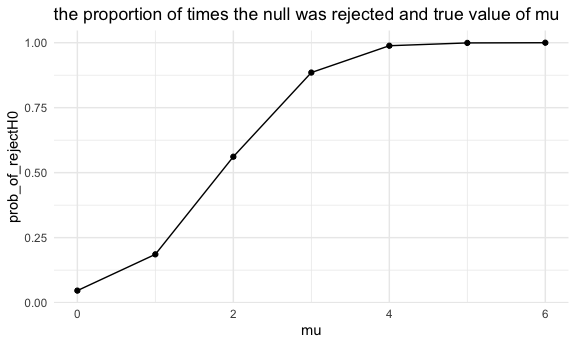
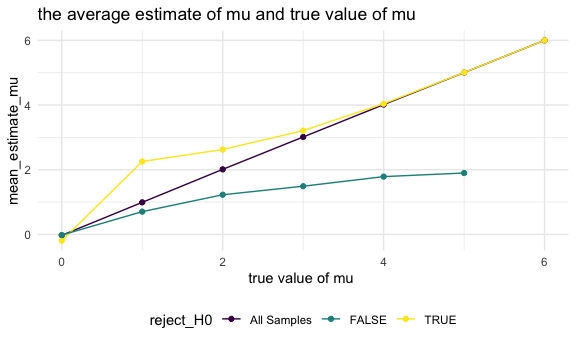
review 1

diff --git a/p8105_hw5_dt2833.md b/p8105_hw5_dt2833.md
@@ -247,13 +247,13 @@ decrease in outcome over time.
 
 For subjects among the experiental arm, outcome overall increases over
 time. Comparing starting and ending outcome of subjects, overall outcome
-increases at the end of the study.
+increases by the end of the study.
 
 ## Problem 03
 
 ``` r
 source("source/t_test.R")
-
+#simulation dataset and ttest results
 sim_results_df = 
   expand_grid(
     mu = 0:6, 
@@ -265,20 +265,25 @@ sim_results_df =
   unnest(est_df)
 ```
 
-Plots
+### Plots
+
+**The proportion of times the null was rejected and true value of mu**
 
 ``` r
-#the average estimate of mu and true value of mu
+#the proportion of times the null was rejected and true value of mu
 sim_results_df |> 
 group_by(mu) |> 
- summarize(prob_of_rejectH0 = mean(reject_H0)) |> 
-  ggplot(aes(x = mu, y = prob_of_rejectH0)) + 
+ summarize(prop_of_rejectH0 = mean(reject_H0)) |> 
+  ggplot(aes(x = mu, y = prop_of_rejectH0)) + 
   geom_point() + 
   geom_line()+
    labs( title = "the proportion of times the null was rejected and true value of mu")
 ```
 
-<img src="p8105_hw5_dt2833_files/figure-gfm/unnamed-chunk-9-1.png" alt="" width="90%" />
+<img src="p8105_hw5_dt2833_files/figure-gfm/unnamed-chunk-8-1.png" alt="" width="90%" />
+As effect size increases ( greater mu) and power increases as well.
+
+**the average estimate of mu and true value of mu**
 
 ``` r
 #dataset of the average estimate of 𝜇 for all samples
@@ -303,13 +308,60 @@ sim_results_df |>
     ##   (`?dplyr::dplyr_by`) instead.
 
 ``` r
-#the average estimate of mu and true value of mu
-ggplot() + 
-  geom_point(data = mean_estimate_df, aes(x = mu, y = mean_estimate_mu, color= "All Samples")) + 
-  geom_line(data = mean_estimate_df, aes(x = mu, y = mean_estimate_mu, color= "All Samples")) + 
-  geom_point(data = reject_H0_df, aes(x = mu, y = mean_estimate_mu,color= reject_H0)) + 
-  geom_line(data = reject_H0_df, aes(x = mu, y = mean_estimate_mu,color= reject_H0)) + 
-  labs( title = "the average estimate of mu and true value of mu")
+failreject_H0_df = 
+sim_results_df |> 
+  filter(reject_H0 == FALSE )|>
+ group_by(mu,reject_H0) |> 
+  summarize(mean_estimate_mu = mean(estimate)) 
 ```
 
-<img src="p8105_hw5_dt2833_files/figure-gfm/unnamed-chunk-9-2.png" alt="" width="90%" />
+    ## `summarise()` has regrouped the output.
+    ## ℹ Summaries were computed grouped by mu and reject_H0.
+    ## ℹ Output is grouped by mu.
+    ## ℹ Use `summarise(.groups = "drop_last")` to silence this message.
+    ## ℹ Use `summarise(.by = c(mu, reject_H0))` for per-operation grouping
+    ##   (`?dplyr::dplyr_by`) instead.
+
+``` r
+#plot
+ggplot() + 
+  geom_point(data = mean_estimate_df, aes(x = mu, y = mean_estimate_mu, color= "All Samples"))+
+  geom_line(data = mean_estimate_df, aes(x = mu, y = mean_estimate_mu, color= "All Samples")) +
+  geom_point(data = reject_H0_df, aes(x = mu, y = mean_estimate_mu,color= reject_H0)) + 
+  geom_line(data = reject_H0_df, aes(x = mu, y = mean_estimate_mu,color= reject_H0)) + 
+  geom_point(data = failreject_H0_df, aes(x = mu, y = mean_estimate_mu,color= reject_H0)) + 
+  geom_line(data = failreject_H0_df, aes(x = mu, y = mean_estimate_mu,color= reject_H0))+
+  labs( title = "the average estimate of mu and true value of mu", 
+        x = "true value of mu ")
+```
+
+<img src="p8105_hw5_dt2833_files/figure-gfm/unnamed-chunk-9-1.png" alt="" width="90%" />
+
+``` r
+sim_results_df |> 
+  filter(reject_H0 == TRUE )|> 
+  count(mu)
+```
+
+    ## # A tibble: 7 × 2
+    ##      mu     n
+    ##   <int> <int>
+    ## 1     0   231
+    ## 2     1   929
+    ## 3     2  2807
+    ## 4     3  4426
+    ## 5     4  4942
+    ## 6     5  4996
+    ## 7     6  5000
+
+The sample average of 𝜇̂ across tests for which the null is rejected is
+not approximately equal to the true value of 𝜇, for all 𝜇.
+
+With less effect size (smaller true values of mu) and less power, mean
+estimates of mu are further away from (greater than) the true value, and
+a true effect is less easily identified ( more extreme values are needed
+to reject H0)
+
+As mu increases and effect size increases and thus power increases, a
+true effect is more easily identified and mean estimates of mu are close
+to the true mu. A greater proportion samples are being rejected.
